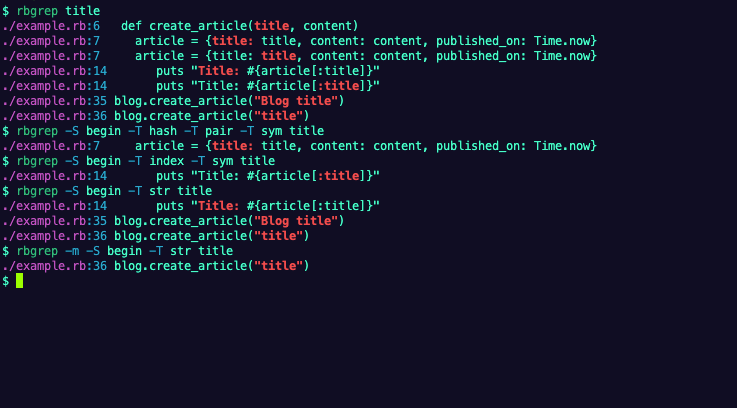
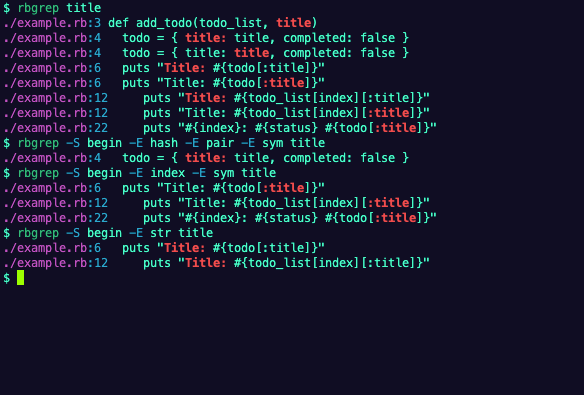
:sparkles: Delete unnecessary OPTIONS

Changed region(s): [[0.0, 0.0, 0.8322, 0.7291]]

diff --git a/src/source.rs b/src/source.rs
@@ -134,8 +134,6 @@ pub enum Node {
 }
 
 pub struct GrepOptions {
-    pub include_node: Option<Node>,
-    pub exclude_node: Option<Node>,
     pub start_nodes: Option<Vec<Node>>,
     pub end_nodes: Option<Vec<Node>>,
 }
@@ -473,12 +471,7 @@ impl<'a, T: Matcher> Source<'a, T> {
             let results: Vec<LineResult> = self
                 .search(vec![], root, &self.input)
                 .into_iter()
-                .filter(|r| {
-                    self.include_node(&r.nodes)
-                        && self.exclude_node(&r.nodes)
-                        && self.start_nodes(&r.nodes)
-                        && self.end_nodes(&r.nodes)
-                })
+                .filter(|r| self.start_nodes(&r.nodes) && self.end_nodes(&r.nodes))
                 .collect();
 
             (!results.is_empty())
@@ -491,22 +484,6 @@ impl<'a, T: Matcher> Source<'a, T> {
                 })
                 .unwrap_or(None)
         })
-    }
-
-    fn include_node(&self, nodes: &[Node]) -> bool {
-        self.options
-            .include_node
-            .as_ref()
-            .map(|i| nodes.contains(i))
-            .unwrap_or(true)
-    }
-
-    fn exclude_node(&self, nodes: &[Node]) -> bool {
-        self.options
-            .exclude_node
-            .as_ref()
-            .map(|e| !nodes.contains(e))
-            .unwrap_or(true)
     }
 
     fn start_nodes(&self, nodes: &[Node]) -> bool {
@@ -3120,8 +3097,6 @@ mod tests {
             text.unwrap_or(expected.line.clone()).as_str(),
             &m,
             GrepOptions {
-                include_node: None,
-                exclude_node: None,
                 start_nodes: None,
                 end_nodes: None,
             },
@@ -3145,50 +3120,10 @@ mod tests {
     }
 
     #[rstest]
-    // include_node
-    #[case(
-        "foo",
-        "def test; foo.bar(); end;",
-        Some(Node::Send),
-        None,
-        None,
-        None,
-        true
-    )]
-    #[case(
-        "def",
-        "def test; foo.bar(); end;",
-        Some(Node::Send),
-        None,
-        None,
-        None,
-        false
-    )]
-    // exclude_node
-    #[case(
-        "test",
-        "def test; foo.bar(); end;",
-        None,
-        Some(Node::Send),
-        None,
-        None,
-        true
-    )]
-    #[case(
-        "foo",
-        "def test; foo.bar(); end;",
-        None,
-        Some(Node::Send),
-        None,
-        None,
-        false
-    )]
     // start_nodes
     #[case(
         "foo",
         "def test; foo.bar(); end;",
-        None,
-        None,
         Some(vec![Node::Def, Node::Send]),
         None,
         true
@@ -3196,8 +3131,6 @@ mod tests {
     #[case(
         "far",
         "def test; foo.bar(); end;",
-        None,
-        None,
         None,
         Some(vec![Node::Send]),
         false
@@ -3207,8 +3140,6 @@ mod tests {
         "foo",
         "def test; foo.bar(); end;",
         None,
-        None,
-        None,
         Some(vec![Node::Send, Node::Send]),
         true
     )]
@@ -3216,16 +3147,12 @@ mod tests {
         "test",
         "def test; foo.bar(); end;",
         None,
-        None,
-        None,
         Some(vec![Node::Send]),
         false
     )]
     fn grep_search_options(
         #[case] query: String,
         #[case] text: String,
-        #[case] include_node: Option<Node>,
-        #[case] exclude_node: Option<Node>,
         #[case] start_nodes: Option<Vec<Node>>,
         #[case] end_nodes: Option<Vec<Node>>,
         #[case] expected: bool,
@@ -3235,8 +3162,6 @@ mod tests {
             text.as_str(),
             &m,
             GrepOptions {
-                include_node: include_node,
-                exclude_node: exclude_node,
                 start_nodes: start_nodes,
                 end_nodes: end_nodes,
             },

diff --git a/src/cli.rs b/src/cli.rs
@@ -17,7 +17,7 @@ use tap::Tap;
 #[derive(Parser)]
 #[command(name = "rbgrep")]
 #[command(author = "Takahiro Sato. <harehare1110@gmail.com>")]
-#[command(version = "0.1.2")]
+#[command(version = "0.1.3")]
 #[command(
     about = "rbgrep is a line-oriented search cli tool that recursively searches ruby files in the current directory for a regex patterns.",
     long_about = None
@@ -43,14 +43,6 @@ pub struct Cli {
     #[arg(short = 'e', long)]
     regexp: bool,
 
-    /// Include node type.
-    #[arg(short = 'I', long, value_enum)]
-    include_node: Option<Node>,
-
-    /// Exclude node type.
-    #[arg(short = 'E', long, value_enum)]
-    exclude_node: Option<Node>,
-
     /// Start nodes.
     #[arg(short = 'S', long, value_enum)]
     start_nodes: Option<Vec<Node>>,
@@ -60,7 +52,7 @@ pub struct Cli {
     exclude: Option<String>,
 
     /// End nodes.
-    #[arg(short = 'T', long, value_enum)]
+    #[arg(short = 'E', long, value_enum)]
     end_nodes: Option<Vec<Node>>,
 
     /// Don't respect .gitignore files.
@@ -152,8 +144,6 @@ impl Cli {
                                 stdin.as_str(),
                                 &m,
                                 GrepOptions {
-                                    include_node: self.include_node.clone(),
-                                    exclude_node: self.exclude_node.clone(),
                                     start_nodes: self.start_nodes.clone(),
                                     end_nodes: self.end_nodes.clone(),
                                 },
@@ -180,8 +170,6 @@ impl Cli {
                                                     content.as_str(),
                                                     &m,
                                                     GrepOptions {
-                                                        include_node: self.include_node.clone(),
-                                                        exclude_node: self.exclude_node.clone(),
                                                         start_nodes: self.start_nodes.clone(),
                                                         end_nodes: self.end_nodes.clone(),
                                                     },
@@ -214,8 +202,6 @@ impl Cli {
                         stdin.as_str(),
                         &m,
                         GrepOptions {
-                            include_node: self.include_node.clone(),
-                            exclude_node: self.exclude_node.clone(),
                             start_nodes: self.start_nodes.clone(),
                             end_nodes: self.end_nodes.clone(),
                         },
@@ -242,8 +228,6 @@ impl Cli {
                                             content.as_str(),
                                             &m,
                                             GrepOptions {
-                                                include_node: self.include_node.clone(),
-                                                exclude_node: self.exclude_node.clone(),
                                                 start_nodes: self.start_nodes.clone(),
                                                 end_nodes: self.end_nodes.clone(),
                                             },
@@ -402,8 +386,6 @@ mod tests {
             exact_match: false,
             hidden: true,
             regexp,
-            include_node: None,
-            exclude_node: None,
             start_nodes: None,
             end_nodes: None,
             no_git_ignore: false,
@@ -456,8 +438,6 @@ mod tests {
             exact_match: false,
             hidden: true,
             regexp: false,
-            include_node: None,
-            exclude_node: None,
             start_nodes: None,
             end_nodes: None,
             no_git_ignore: false,

diff --git a/README.md b/README.md
@@ -43,15 +43,11 @@ Options:
           Search hidden files and directory
   -e, --regexp
           Regex pattern search
-  -I, --include-node <INCLUDE_NODE>
-          Include node type [possible values: alias, and, and-asgn, arg, args, array, array-pattern, array-pattern-with-tail, back-ref, begin, block, block-pass, blockarg, break, c-send, case, case-match, casgn, cbase, class, complex, const, const-pattern, cvar, cvasgn, def, defined, defs, dstr, dsym, e-flip-flop, empty-else, encoding, ensure, erange, false, file, find-pattern, float, for, forward-arg, forwarded-args, gvar, gvasgn, hash, hash-pattern, heredoc, i-flip-flop, if, if-guard, if-mod, if-ternary, in-pattern, index, index-asgn, int, irange, ivar, ivasgn, kw-begin, kwarg, kwargs, kwnilarg, kwoptarg, kwrestarg, kwsplat, lambda, line, lvar, lvasgn, masgn, match-alt, match-as, match-current-line, match-nil-pattern, match-pattern, match-pattern-p, match-rest, match-var, match-with-lvasgn, mlhs, module, next, nil, nth-ref, numblock, op-asgn, optarg, or, or-asgn, pair, pin, postexe, preexe, procarg0, rational, redo, reg-opt, regexp, rescue, rescue-body, restarg, retry, return, s-class, self, send, shadowarg, splat, str, super, sym, true, undef, unless-guard, until, until-post, when, while, while-post, x-heredoc, xstr, yield, z-super]
-  -E, --exclude-node <EXCLUDE_NODE>
-          Exclude node type [possible values: alias, and, and-asgn, arg, args, array, array-pattern, array-pattern-with-tail, back-ref, begin, block, block-pass, blockarg, break, c-send, case, case-match, casgn, cbase, class, complex, const, const-pattern, cvar, cvasgn, def, defined, defs, dstr, dsym, e-flip-flop, empty-else, encoding, ensure, erange, false, file, find-pattern, float, for, forward-arg, forwarded-args, gvar, gvasgn, hash, hash-pattern, heredoc, i-flip-flop, if, if-guard, if-mod, if-ternary, in-pat
   -S, --start-nodes <START_NODES>
           Start nodes [possible values: alias, and, and-asgn, arg, args, array, array-pattern, array-pattern-with-tail, back-ref, begin, block, block-pass, blockarg, break, c-send, case, case-match, casgn, cbase, class, complex, const, const-pattern, cvar, cvasgn, def, defined, defs, dstr, dsym, e-flip-flop, empty-else, encoding, ensure, erange, false, file, find-pattern, float, for, forward-arg, forwarded-args, gvar, gvasgn, hash, hash-pattern, heredoc, i-flip-flop, if, if-guard, if-mod, if-ternary, in-pattern, index, index-asgn, int, irange, ivar, ivasgn, kw-begin, kwarg, kwargs, kwnilarg, kwoptarg, kwrestarg, kwsplat, lambda, line, lvar, lvasgn, masgn, match-alt, match-as, match-current-line, match-nil-pattern, match-pattern, match-pattern-p, match-rest, match-var, match-with-lvasgn, mlhs, module, next, nil, nth-ref, numblock, op-asgn, optarg, or, or-asgn, pair, pin, postexe, preexe, procarg0, rational, redo, reg-opt, regexp, rescue, rescue-body, restarg, retry, return, s-class, self, send, shadowarg, splat, str, super, sym, true, undef, unless-guard, until, until-post, when, while, while-post, x-heredoc, xstr, yield, z-super]
       --exclude <EXCLUDE>
           If specified, it excludes files or directories matching the given filename pattern from the search
-  -T, --end-nodes <END_NODES>
+  -E, --end-nodes <END_NODES>
           End nodes [possible values: alias, and, and-asgn, arg, args, array, array-pattern, array-pattern-with-tail, back-ref, begin, block, block-pass, blockarg, break, c-send, case, case-match, casgn, cbase, class, complex, const, const-pattern, cvar, cvasgn, def, defined, defs, dstr, dsym, e-flip-flop, empty-else, encoding, ensure, erange, false, file, find-pattern, float, for, forward-arg, forwarded-args, gvar, gvasgn, hash, hash-pattern, heredoc, i-flip-flop, if, if-guard, if-mod, if-ternary, in-pattern, index, index-asgn, int, irange, ivar, ivasgn, kw-begin, kwarg, kwargs, kwnilarg, kwoptarg, kwrestarg, kwsplat, lambda, line, lvar, lvasgn, masgn, match-alt, match-as, match-current-line, match-nil-pattern, match-pattern, match-pattern-p, match-rest, match-var, match-with-lvasgn, mlhs, module, next, nil, nth-ref, numblock, op-asgn, optarg, or, or-asgn, pair, pin, postexe, preexe, procarg0, rational, redo, reg-opt, regexp, rescue, rescue-body, restarg, retry, return, s-class, self, send, shadowarg, splat, str, super, sym, true, undef, unless-guard, until, until-post, when, while, while-post, x-heredoc, xstr, yield, z-super]
       --no-git-ignore
           Dont respect .gitignore files
@@ -92,22 +88,22 @@ Options:
 ### Example
 
 ```rb
-$ rbgrep -S begin -T hash -T pair -T sym title
+$ rbgrep -S begin -E hash -E pair -E sym title
 ./example.rb:7     article = {title: title, content: content, published_on: Time.now}
 ```
 
 ```rb
-$ rbgrep -S begin -T index -T sym title
+$ rbgrep -S begin -E index -E sym title
 ./example.rb:14       puts "Title: #{article[:title]}"
 ```
 
 ```rb
-$ cat example.rb | rbgrep -S begin -T index -T sym title -
+$ cat example.rb | rbgrep -S begin -E index -E sym title -
 :14       puts "Title: #{article[:title]}"
 ```
 
 ```rb
-$ rbgrep -S begin -T index -T sym -p example.rb -p example2.rb title
+$ rbgrep -S begin -E index -E sym -p example.rb -p example2.rb title
 :14       puts "Title: #{article[:title]}"
 ```
 
